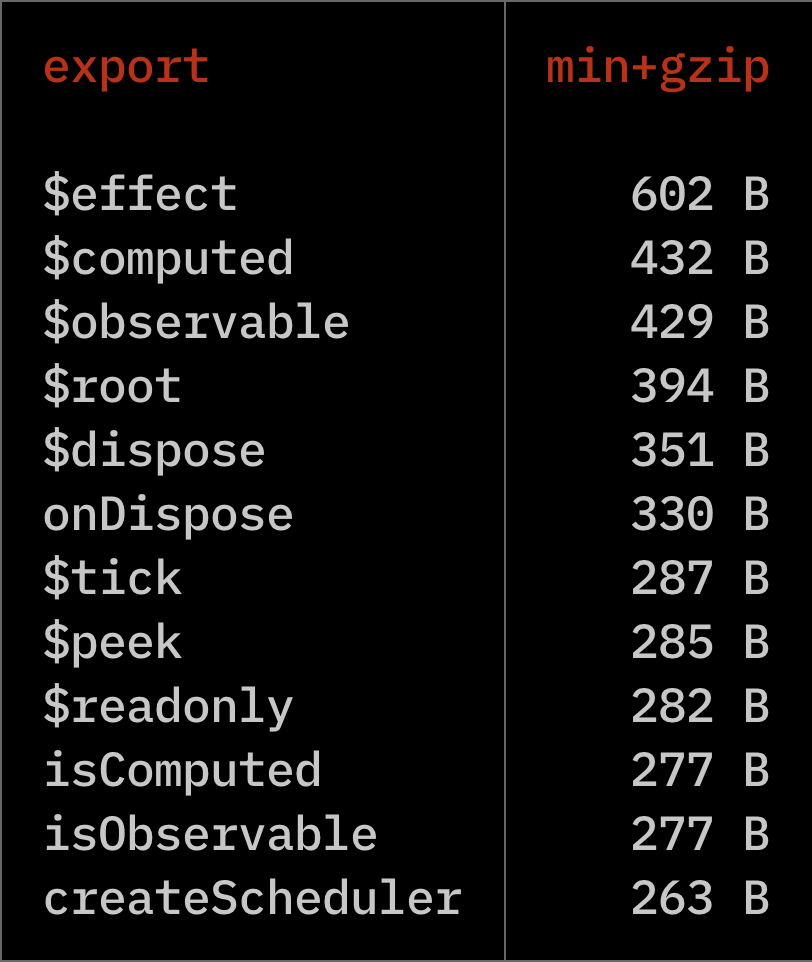
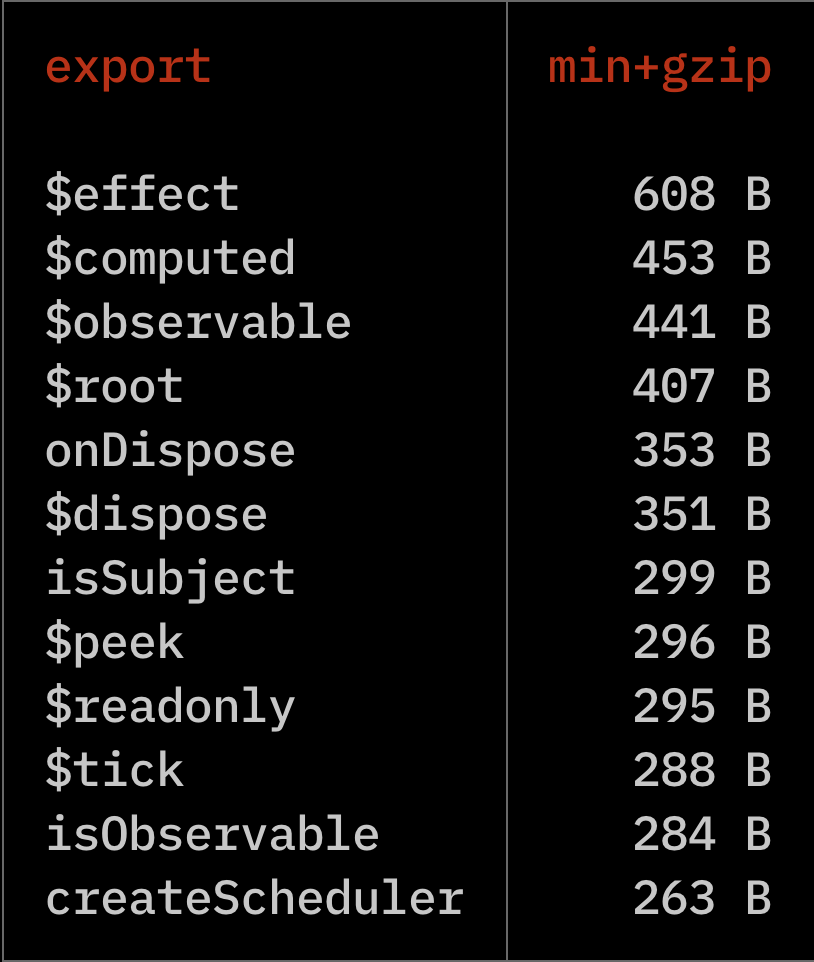
fix: all types extend observable
BREAKING CHANGE:

- computed type `Computed` -> `Observable`
- observable return type is now `ObservableSubject`
- dropped `isComputed`
- `isObservable` checks readonly
- `isObservable` passes for computed observables

diff --git a/src/observables.ts b/src/observables.ts
@@ -3,28 +3,22 @@ import { createScheduler } from './scheduler';
 export type Observable<T> = {
   $id?: string;
   (): T;
+};
+
+export type ObservableSubject<T> = Observable<T> & {
   set: (value: T) => void;
   next: (next: (prevValue: T) => T) => void;
 };
 
-export type ReadonlyObservable<T> = {
-  $id?: string;
-  (): T;
-};
-
-export type Computed<T> = ReadonlyObservable<T>;
-
 export type Dispose = () => void;
-
 export type Effect = () => MaybeStopEffect;
 export type StopEffect = (deep?: boolean) => void;
 
 export type Maybe<T> = T | void | null | undefined | false;
 export type MaybeFunction = Maybe<(...args: any) => any>;
-export type MaybeObservable<T = unknown> = MaybeFunction | Observable<T>;
-export type MaybeComputed<T = unknown> = MaybeFunction | Computed<T>;
 export type MaybeDispose = Maybe<Dispose>;
 export type MaybeStopEffect = Maybe<StopEffect>;
+export type MaybeObservable<T> = MaybeFunction | Observable<T>;
 
 const NOOP = () => {};
 
@@ -97,7 +91,8 @@ export function $peek<T>(fn: () => T): T {
 /**
  * Wraps the given value into an observable function. The observable function will return the
  * current value when invoked `fn()`, and provide a simple write API via `set()` and `next()`. The
- * value can now be observed when used inside other computations created with `$computed` and `$effect`.
+ * value can now be observed when used inside other computations created with `$computed` and
+ * `$effect`.
  *
  * @example
  * ```
@@ -108,10 +103,10 @@ export function $peek<T>(fn: () => T): T {
  * $a.next(prev => prev + 10); // write (2)
  * ```
  */
-export function $observable<T>(initialValue: T, $id?: string): Observable<T> {
+export function $observable<T>(initialValue: T, $id?: string): ObservableSubject<T> {
   let currentValue = initialValue;
 
-  const $observable: Observable<T> = () => {
+  const $observable: ObservableSubject<T> = () => {
     if (__DEV__) _callStack.push($observable);
     if (_parent) dependency(_parent, $observable);
     if (_computation) observe($observable, _computation);
@@ -132,26 +127,28 @@ export function $observable<T>(initialValue: T, $id?: string): Observable<T> {
   if (__DEV__) $observable.$id = $id ?? '$observable';
 
   $observable[OBSERVABLE] = true;
+
   return $observable;
 }
 
 /**
- * Whether the given function is an observable.
+ * Whether the given value is an observable (readonly).
  *
  * @example
  * ```js
  * // True
  * isObservable($observable(10));
+ * isObservable($computed(() => 10));
+ * isObservable($readonly($observable(10)));
  * // False
  * isObservable(false);
  * isObservable(null);
  * isObservable(undefined);
- * isObservable($computed(() => 10));
- * isObservable($effect(() => {}));
+ * isObservable(() => {});
  * ```
  */
 export function isObservable<T>(fn: MaybeObservable<T>): fn is Observable<T> {
-  return fn ? OBSERVABLE in fn : false;
+  return !!fn?.[OBSERVABLE];
 }
 
 /**
@@ -177,10 +174,10 @@ export function isObservable<T>(fn: MaybeObservable<T>): fn is Observable<T> {
  * console.log($c()); // logs 40
  * ```
  */
-export function $computed<T>(fn: () => T, $id?: string): Computed<T> {
+export function $computed<T>(fn: () => T, $id?: string): Observable<T> {
   let currentValue;
 
-  const $computed: Computed<T> = () => {
+  const $computed: Observable<T> = () => {
     if (__DEV__ && _computeStack.includes($computed)) {
       const calls = _callStack.map((c) => c.$id ?? '?').join(' --> ');
       throw Error(`cyclic dependency detected\n\n${calls}\n`);
@@ -205,6 +202,7 @@ export function $computed<T>(fn: () => T, $id?: string): Computed<T> {
 
   // Starts off dirty because it hasn't run yet.
   $computed[DIRTY] = true;
+  $computed[OBSERVABLE] = true;
   $computed[COMPUTED] = true;
 
   return $computed;
@@ -328,8 +326,10 @@ export function $effect(fn: Effect, $id?: string): StopEffect {
  * console.log($b()); // logs 20
  * ```
  */
-export function $readonly<T>($observable: Observable<T>): ReadonlyObservable<T> {
-  return () => $observable();
+export function $readonly<T>($observable: Observable<T>): Observable<T> {
+  const $readonly = () => $observable();
+  $readonly[OBSERVABLE] = true;
+  return $readonly;
 }
 
 /**
@@ -361,22 +361,23 @@ export function $tick() {
 }
 
 /**
- * Whether the given function is computed.
+ * Whether the given value is an observable subject (i.e., can produce new values via write API).
  *
  * @example
  * ```js
  * // True
- * isComputed($computed(() => 10));
+ * isSubject($observable(10));
  * // False
- * isComputed(false);
- * isComputed(null);
- * isComputed(undefined);
- * isComputed($observable(10));
- * isComputed($effect(() => {}));
+ * isSubject(false);
+ * isSubject(null);
+ * isSubject(undefined);
+ * isSubject(() => {});
+ * isSubject($computed(() => 10));
+ * isSubject($readonly($observable(10)));
  * ```
  */
-export function isComputed<T>(fn: MaybeComputed<T>): fn is Computed<T> {
-  return fn ? COMPUTED in fn : false;
+export function isSubject<T>(fn: MaybeObservable<T>): fn is ObservableSubject<T> {
+  return isObservable(fn) && !!(fn as ObservableSubject<T>).set;
 }
 
 type Computable = {

diff --git a/tests/observables.test.ts b/tests/observables.test.ts
@@ -8,10 +8,10 @@ import {
   $readonly,
   $dispose,
   isObservable,
-  isComputed,
   onDispose,
-  type Computed,
+  isSubject,
   type Observable,
+  type ObservableSubject,
 } from '../src';
 
 afterEach(() => $tick());
@@ -20,8 +20,8 @@ describe('$root', () => {
   it('should dispose of inner computations', async () => {
     const computeB = vi.fn();
 
-    let $a: Observable<number>;
-    let $b: Computed<number>;
+    let $a: ObservableSubject<number>;
+    let $b: Observable<number>;
 
     $root((dispose) => {
       $a = $observable(10);
@@ -79,11 +79,13 @@ describe('$observable', () => {
 
 describe('isObservable', () => {
   it('should return true if given observable', () => {
-    expect(isObservable($observable(10))).toBe(true);
+    [$observable(10), $readonly($observable(10)), $computed(() => 10)].forEach((type) => {
+      expect(isObservable(type)).toBe(true);
+    });
   });
 
   it('should return false if given non-observable', () => {
-    ([false, () => {}, $computed(() => 10), $effect(() => {})] as const).forEach((type) =>
+    ([false, null, undefined, () => {}, $effect(() => {})] as const).forEach((type) =>
       expect(isObservable(type)).toBe(false),
     );
   });
@@ -515,15 +517,15 @@ describe('$dispose', () => {
   });
 });
 
-describe('isComputed', () => {
-  it('should return true given computed', () => {
-    expect(isComputed($computed(() => 10))).toBe(true);
+describe('isSubject', () => {
+  it('should return true given subject', () => {
+    expect(isSubject($observable(10))).toBe(true);
   });
 
-  it('should return false if given non-computed', () => {
-    ([false, () => {}, $observable(10), $effect(() => {})] as const).forEach((type) =>
-      expect(isComputed(type)).toBe(false),
-    );
+  it('should return false if given non-subject', () => {
+    (
+      [false, () => {}, $computed(() => 10), $readonly($observable(10)), $effect(() => {})] as const
+    ).forEach((type) => expect(isSubject(type)).toBe(false));
   });
 });
 

diff --git a/bench/layers.js b/bench/layers.js
@@ -12,7 +12,7 @@ import * as solid from './solid-js-baseline.js';
 import * as maverick from '../dist/prod/index.js';
 import Table from 'cli-table';
 
-const RUNS_PER_TIER = 100;
+const RUNS_PER_TIER = 150;
 const LAYER_TIERS = [10, 100, 500, 1000, 2000, 2500];
 
 const sum = (array) => array.reduce((a, b) => a + b, 0);
@@ -35,10 +35,10 @@ const isSolution = (layers, answer) => answer.every((_, i) => SOLUTIONS[layers][
 
 async function main() {
   const report = {
+    maverick: { fn: runMaverick, runs: [], avg: [] },
     cellx: { fn: runCellx, runs: [] },
     solid: { fn: runSolid, runs: [] },
     S: { fn: runS, runs: [] },
-    maverick: { fn: runMaverick, runs: [], avg: [] },
     // Can't get it to work for some reason.
     // sinuous: { fn: runSinuous, runs: [] },
   };
@@ -296,13 +296,6 @@ function runSolid(layers, done) {
           c: solid.createMemo(() => m.b() + m.d()),
           d: solid.createMemo(() => m.c()),
         };
-
-        solid.createComputed(props.a),
-          solid.createComputed(props.b),
-          solid.createComputed(props.c),
-          solid.createComputed(props.d);
-
-        props.a(), props.b(), props.c(), props.d();
 
         return props;
       })(layer);

diff --git a/README.md b/README.md
@@ -37,7 +37,7 @@ Here's a simple demo to see how it works:
 ```js
 import { $root, $observable, $computed, $effect, $tick } from '@maverick-js/observables';
 
-$root((dispose) => {
+$root(async (dispose) => {
   // Create - all types supported (string, array, object, etc.)
   const $m = $observable(1);
   const $x = $observable(1);
@@ -108,7 +108,7 @@ $: yarn add @maverick-js/observables
 - [`$dispose`](#dispose)
 - [`onDispose`](#ondispose)
 - [`isObservable`](#isobservable)
-- [`isComputed`](#iscomputed)
+- [`isSubject`](#issubject)
 
 ## `$root`
 
@@ -382,39 +382,36 @@ $effect(() => {
 
 ### `isObservable`
 
-Whether the given function is an observable.
+Whether the given value is an observable (readonly).
 
 ```js
-import { $observable, $computed, $effect, isObservable } from '@maverick-js/observables';
-
 // True
 isObservable($observable(10));
+isObservable($computed(() => 10));
+isObservable($readonly($observable(10)));
 
 // False
 isObservable(false);
 isObservable(null);
 isObservable(undefined);
 isObservable(() => {});
-isObservable($computed(() => 10));
-isObservable($effect(() => {}));
 ```
 
-### `isComputed`
+### `isSubject`
 
-Whether the given function is computed.
+Whether the given value is an observable subject (i.e., can produce new values via write API).
 
 ```js
-import { $observable, $computed, $effect, isComputed } from '@maverick-js/observables';
-
 // True
-isComputed($computed(() => 10));
+isSubject($observable(10));
 
 // False
-isComputed(false);
-isComputed(null);
-isComputed(undefined);
-isComputed($observable(10));
-isComputed($effect(() => {}));
+isSubject(false);
+isSubject(null);
+isSubject(undefined);
+isSubject(() => {});
+isSubject($computed(() => 10));
+isSubject($readonly($observable(10)));
 ```
 
 ## Debugging
@@ -468,32 +465,29 @@ await scheduler.tick;
 
 ```ts
 import {
-  $computed,
-  isComputed,
   isObservable,
+  isSubject,
+  type Effect,
   type Observable,
-  type Computed,
   type MaybeObservable,
-  type MaybeComputed,
 } from '@maverick-js/observables';
 
 // Types
 const observable: Observable<number>;
-const computed: Computed<number>;
+const computed: Observable<string>;
+const effect: Effect;
 
 // Provide generic if TS fails to infer correct type.
 const $a = $computed<string>(() => /* ... */);
 
-// Observable type inference
-const $b: MaybeObservable<number> = null;
+const $b: MaybeObservable<number>;
+
 if (isObservable($b)) {
   $b(); // Observable<number>
 }
 
-// Computed type inference
-const $c: MaybeComputed<number> = null;
-if (isComputed($c)) {
-  $c(); // Computed<number>
+if (isSubject($b)) {
+  $b.set(10); // ObservableSubject<number>
 }
 ```
 
@@ -527,11 +521,11 @@ Special thanks to Wesley, Julien, and Solid/Svelte contributors for all their wo
 [package-badge]: https://img.shields.io/npm/v/@maverick-js/observables/latest
 [license]: https://github.com/maverick-js/observables/blob/main/LICENSE
 [license-badge]: https://img.shields.io/github/license/maverick-js/observables
-[size-badge]: https://img.shields.io/bundlephobia/minzip/@maverick-js/observables@^2.0.0
+[size-badge]: https://img.shields.io/bundlephobia/minzip/@maverick-js/observables@^3.0.0
 [solidjs]: https://github.com/solidjs/solid
 [sinuous]: https://github.com/luwes/sinuous
 [hyperactiv]: https://github.com/elbywan/hyperactiv
 [svelte-scheduler]: https://github.com/sveltejs/svelte/blob/master/src/runtime/internal/scheduler.ts
 [mdn-microtasks]: https://developer.mozilla.org/en-US/docs/Web/API/HTML_DOM_API/Microtask_guide
 [stackblitz-demo]: https://stackblitz.com/edit/maverick-observables?embed=1&file=index.ts&hideExplorer=1&hideNavigation=1&view=editor
-[bundlephobia]: https://bundlephobia.com/package/@maverick-js/observables@^2.0.0
+[bundlephobia]: https://bundlephobia.com/package/@maverick-js/observables@^3.0.0
